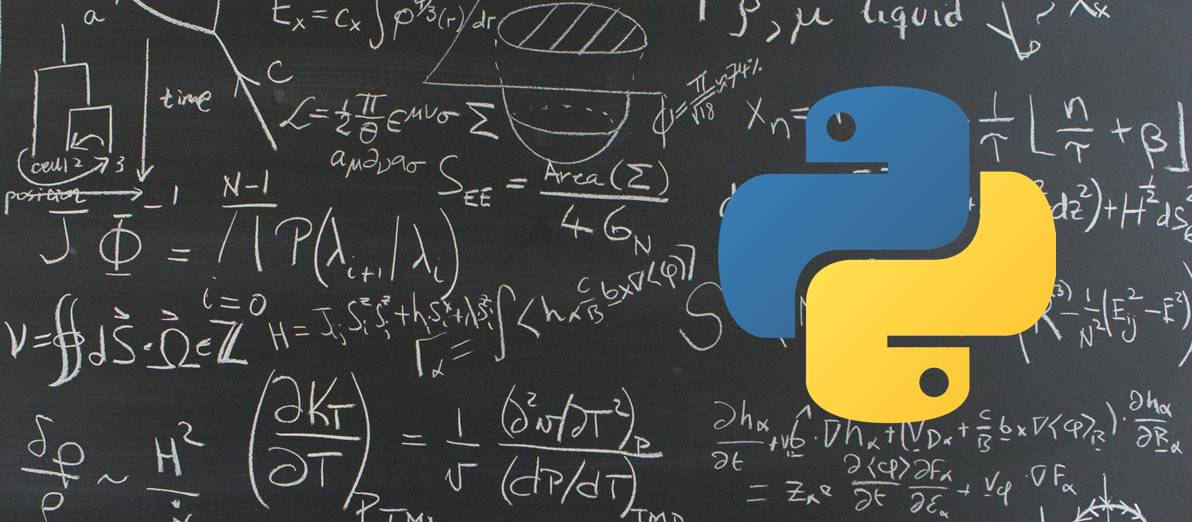
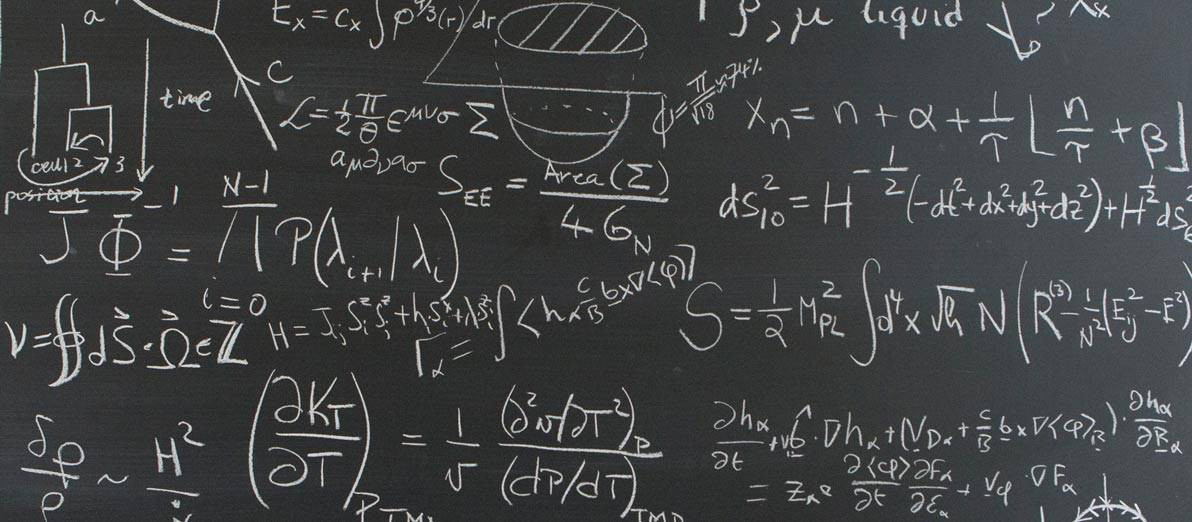
more small tweaks

Changed region(s): [[0.5898, 0.1533, 0.9002, 0.8276]]

diff --git a/assets/css/main.css b/assets/css/main.css
@@ -206,7 +206,6 @@ input, select, textarea {
 				-webkit-animation: bg 45s linear infinite;
 				-ms-animation: bg 45s linear infinite;
 				animation: bg 45s linear infinite;
-				animation-fill-mode: forwards;
 				opacity: 1;
 				visibility: visible;
 				z-index: 1;
@@ -219,11 +218,10 @@ input, select, textarea {
 				@media screen and (max-width: 1280px) {
 
 					#bg div.visible {
-						-moz-animation: bg 0s linear;
-						-webkit-animation: bg 0s linear;
-						-ms-animation: bg 0s linear;
-						animation: bg 0s linear;
-						animation-fill-mode: forwards;
+						-moz-animation: bg 29.25s linear infinite;
+						-webkit-animation: bg 29.25s linear infinite;
+						-ms-animation: bg 29.25s linear infinite;
+						animation: bg 29.25s linear infinite;
 					}
 
 				}
@@ -231,11 +229,10 @@ input, select, textarea {
 				@media screen and (max-width: 736px) {
 
 					#bg div.visible {
-						-moz-animation: bg 0s linear;
-						-webkit-animation: bg 0s linear;
-						-ms-animation: bg 0s linear;
-						animation: bg 0s linear;
-						animation-fill-mode: forwards;
+						-moz-animation: bg 18s linear infinite;
+						-webkit-animation: bg 18s linear infinite;
+						-ms-animation: bg 18s linear infinite;
+						animation: bg 18s linear infinite;
 					}
 
 				}
@@ -372,13 +369,13 @@ input, select, textarea {
 		-ms-transition: border-bottom-color 0.2s ease, color 0.2s ease;
 		transition: border-bottom-color 0.2s ease, color 0.2s ease;
 		border-bottom: dotted 1px rgba(255, 255, 255, 0.25);
-		color: #b4b11c;
+		color: #1cb495;
 		text-decoration: none;
 	}
 
 		a:hover {
 			border-bottom-color: transparent;
-			color: #b4b11c !important;
+			color: #1cb495 !important;
 			text-decoration: none;
 		}
 
@@ -657,7 +654,7 @@ input, select, textarea {
 			}
 
 			form .message.success {
-				color: #b4b11c;
+				color: #1cb495;
 			}
 
 				form .message.success:before {
@@ -819,7 +816,7 @@ input, select, textarea {
 			-ms-animation: focus 0.1s;
 			animation: focus 0.1s;
 			background-color: rgba(255, 255, 255, 0.125);
-			border-color: #b4b11c;
+			border-color: #1cb495;
 		}
 
 	select {
@@ -911,16 +908,16 @@ input, select, textarea {
 
 		input[type="checkbox"]:checked + label:before,
 		input[type="radio"]:checked + label:before {
-			background: #b4b11c;
-			border-color: #b4b11c;
+			background: #1cb495;
+			border-color: #1cb495;
 			color: #ffffff;
 			content: '\f00c';
 		}
 
 		input[type="checkbox"]:focus + label:before,
 		input[type="radio"]:focus + label:before {
-			border-color: #b4b11c;
-			box-shadow: 0 0 0 2px #b4b11c;
+			border-color: #1cb495;
+			box-shadow: 0 0 0 2px #1cb495;
 		}
 
 	input[type="checkbox"] + label:before {
@@ -971,7 +968,7 @@ input, select, textarea {
 		-webkit-transition: background-color 0.2s ease-in-out, color 0.2s ease-in-out, opacity 0.2s ease-in-out;
 		-ms-transition: background-color 0.2s ease-in-out, color 0.2s ease-in-out, opacity 0.2s ease-in-out;
 		transition: background-color 0.2s ease-in-out, color 0.2s ease-in-out, opacity 0.2s ease-in-out;
-		background-color: #b4b11c;
+		background-color: #1cb495;
 		border-radius: 6px;
 		border: 0;
 		color: #ffffff !important;
@@ -991,7 +988,7 @@ input, select, textarea {
 		input[type="button"]:hover,
 		button:hover,
 		.button:hover {
-			background-color: #cac71f;
+			background-color: #1fcaa7;
 		}
 
 		input[type="submit"]:active,
@@ -999,7 +996,7 @@ input, select, textarea {
 		input[type="button"]:active,
 		button:active,
 		.button:active {
-			background-color: #cac71f;
+			background-color: #199e83;
 		}
 
 		input[type="submit"].disabled, input[type="submit"]:disabled,

diff --git a/assets/js/main.js b/assets/js/main.js
@@ -37,10 +37,11 @@
 					// Images (in the format of 'url': 'alignment').
 						images: {
 							'images/bg01.jpg': 'center',
+							'images/bg02.jpg': 'center'
 						},
 
 					// Delay.
-						delay: 60
+						delay: 6000
 
 				};
 
@@ -98,4 +99,72 @@
 				}, settings.delay);
 
 		})();
+
+	// Signup Form.
+		(function() {
+
+			// Vars.
+				var $form = document.querySelectorAll('#signup-form')[0],
+					$submit = document.querySelectorAll('#signup-form input[type="submit"]')[0],
+					$message;
+
+			// Bail if addEventListener isn't supported.
+				if (!('addEventListener' in $form))
+					return;
+
+			// Message.
+				$message = document.createElement('span');
+					$message.classList.add('message');
+					$form.appendChild($message);
+
+				$message._show = function(type, text) {
+
+					$message.innerHTML = text;
+					$message.classList.add(type);
+					$message.classList.add('visible');
+
+					window.setTimeout(function() {
+						$message._hide();
+					}, 3000);
+
+				};
+
+				$message._hide = function() {
+					$message.classList.remove('visible');
+				};
+
+			// Events.
+			// Note: If you're *not* using AJAX, get rid of this event listener.
+				$form.addEventListener('submit', function(event) {
+
+					event.stopPropagation();
+					event.preventDefault();
+
+					// Hide message.
+						$message._hide();
+
+					// Disable submit.
+						$submit.disabled = true;
+
+					// Process form.
+					// Note: Doesn't actually do anything yet (other than report back with a "thank you"),
+					// but there's enough here to piece together a working AJAX submission call that does.
+						window.setTimeout(function() {
+
+							// Reset form.
+								$form.reset();
+
+							// Enable submit.
+								$submit.disabled = false;
+
+							// Show message.
+								$message._show('success', 'Thank you!');
+								//$message._show('failure', 'Something went wrong. Please try again.');
+
+						}, 750);
+
+				});
+
+		})();
+
 })();
